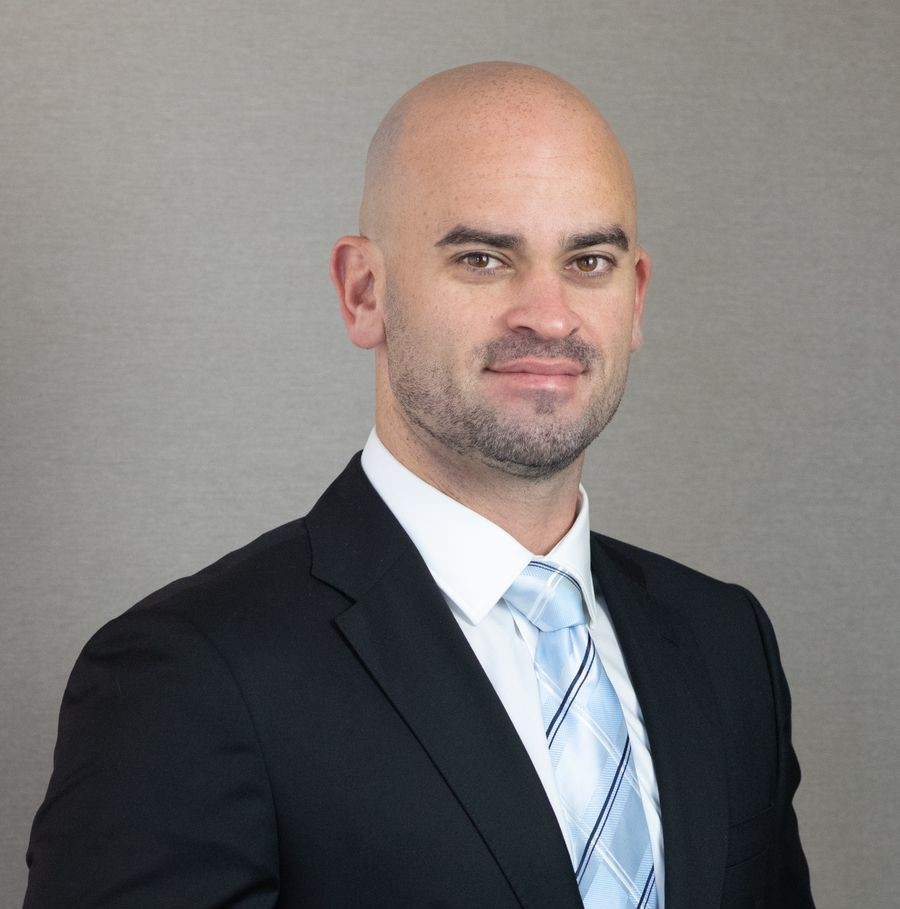
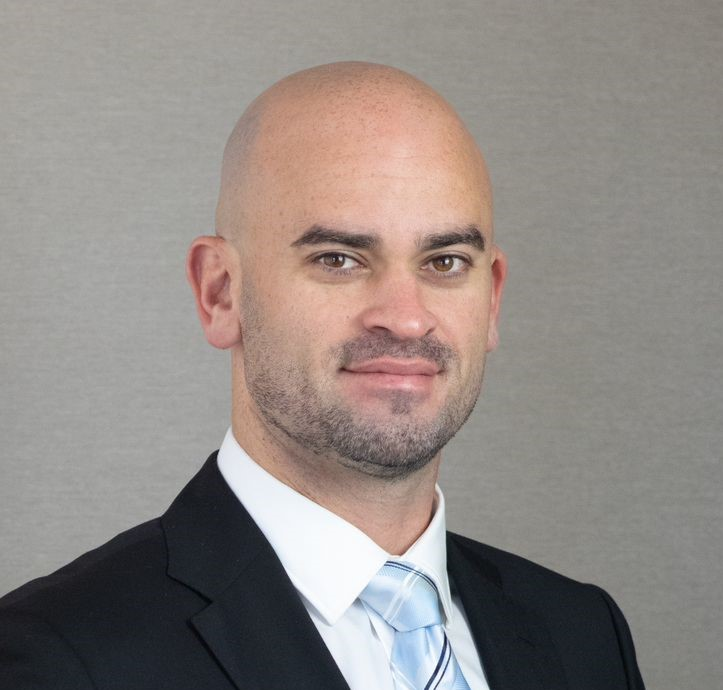
image and paths fix

diff --git a/index.html b/index.html
@@ -453,7 +453,7 @@
           <div class="contact-container">
             <div class="agent">
               <div class="profile">
-                <img src="boris-roz-2.jpg" alt="agent">
+                <img src="boris-roz.jpg" alt="agent">
                 <div class="agent-info">
                   <h3>Boris Gen</h3>
                   <p>Real Estate Specialist</p>

diff --git a/style.css b/style.css
@@ -223,7 +223,7 @@ section {
 #cover{
   align-items: end;
   background-color: #301c34;
-  background-image: url('/assets/images/dubai-skyline-bcg-mobile-2.png');
+  background-image: url('/assets/images/dubai-skyline-bcg-mobile.jpg');
   background-position: center;
 }
 @media (min-width:640px) { 
